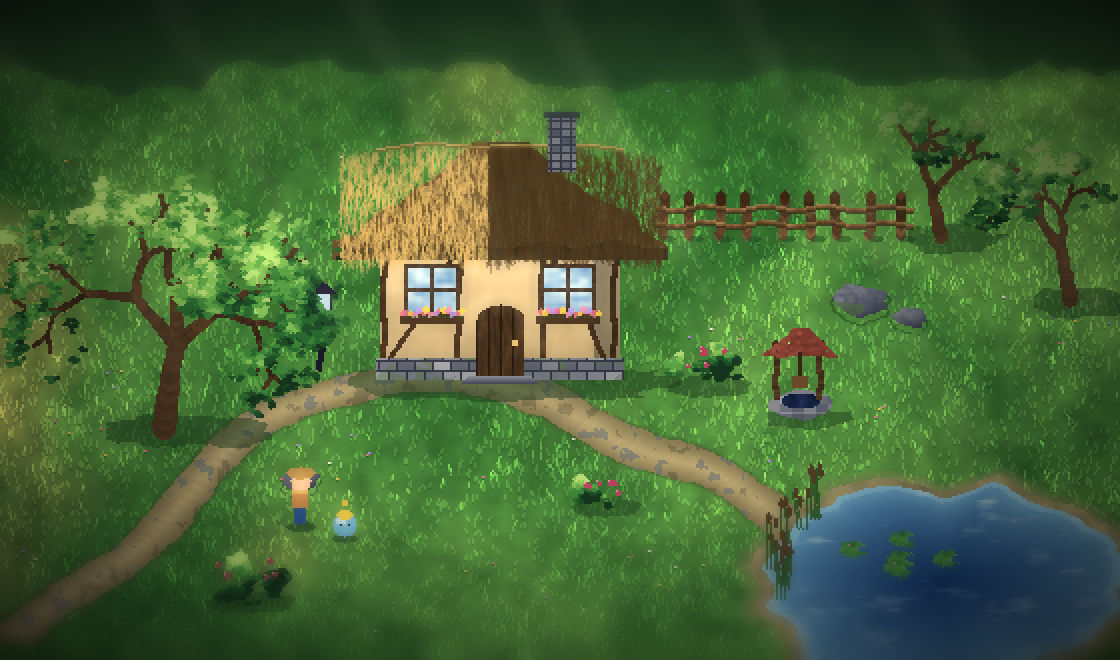
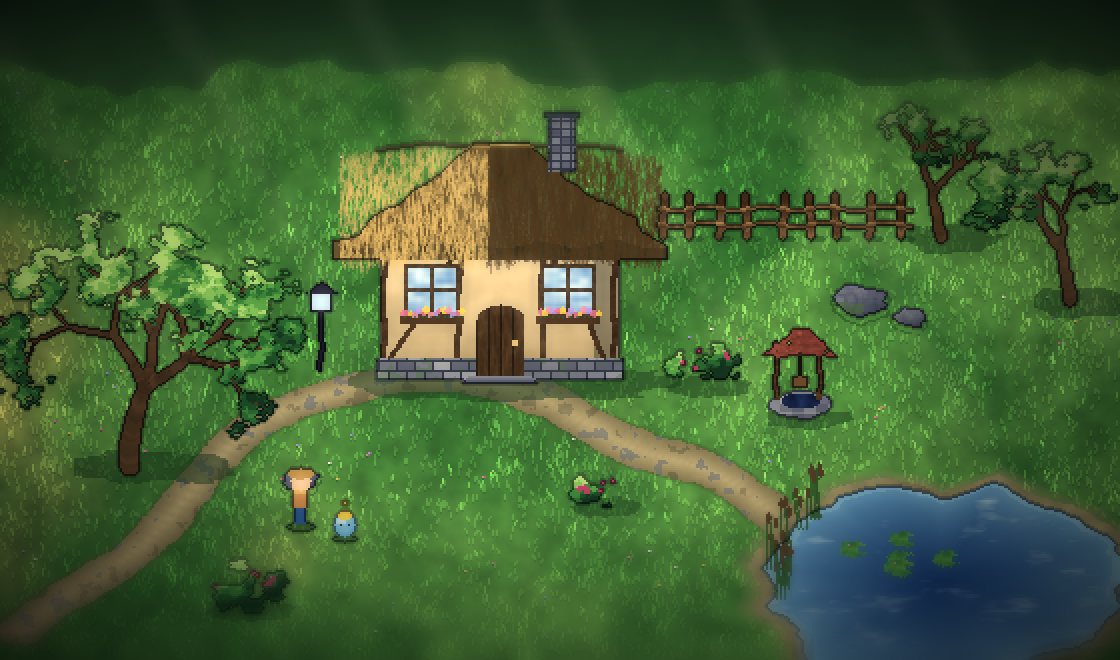
Organic samples: object boundary rims, tree drawn clear of the roof
The raster tracks object coverage while props are painted and rimObjects darkens
each object's edge and the background just outside it; the near tree moves off
the cottage and the scene draws back to front, which removes the leaf dabs that
had landed on the thatch.

diff --git a/tests/tools/env-fractal.test.ts b/tests/tools/env-fractal.test.ts
@@ -14,7 +14,19 @@ import { expect, it } from 'vitest';
 import { Rng } from '../../src/sim/rng';
 import { fbm, ridged, vnoise, warped } from './noise';
 import { encodePng } from './png';
-import { bloom, boxBlur, grade, hash, hex, mix, Raster, shade, vignette, type RGB } from './raster';
+import {
+  bloom,
+  boxBlur,
+  grade,
+  hash,
+  hex,
+  mix,
+  Raster,
+  rimObjects,
+  shade,
+  vignette,
+  type RGB,
+} from './raster';
 
 const W = 560;
 const H = 330;
@@ -139,7 +151,9 @@ function pond(r: Raster): void {
       const ripple = fbm(x / 16 + y / 60, y / 5, 3, 12);
       if (ripple > 0.66) c = mix(c, hex('#dff2ff'), (ripple - 0.66) * 2);
       if (d > edge - 5) c = mix(c, hex('#a9d9f0'), 0.4);
+      r.tracking = true;
       r.set(x, y, c);
+      r.tracking = false;
     }
   }
   // Reeds and lily pads with ragged edges.
@@ -632,6 +646,8 @@ function albedo(): Raster {
   }
   path(r);
   pond(r);
+  // Everything from here is an object: tracked for the boundary rim, drawn back to front.
+  r.tracking = true;
   rock(r, 430, 150, 14, 8, 80);
   rock(r, 455, 158, 8, 5, 81);
   rock(r, 150, 240, 9, 5, 82);
@@ -654,12 +670,14 @@ function albedo(): Raster {
   fence(r, rng, 330, 118, 9);
   cottage(r, rng);
   well(r, 400, 206);
-  tree(r, rng, 82, 214, 1.1);
+  tree(r, rng, 64, 232, 1.05);
   bush(r, rng, 352, 192, 0.9);
-  bush(r, rng, 122, 300, 1);
+  bush(r, rng, 122, 304, 1);
   bush(r, rng, 300, 252, 0.7);
   keeper(r, 150, 262);
   nubbin(r, 172, 268);
+  r.tracking = false;
+  rimObjects(r);
   return r;
 }
 
@@ -687,7 +705,7 @@ function lightPass(a: Raster): Raster {
   for (let yy = -14; yy <= 14; yy++) {
     for (let xx = 0; xx <= 150; xx++) {
       const rr = Math.hypot((xx - 75) / 75, yy / 14) + (fbm(xx / 12, yy / 5, 2, 90) - 0.5) * 0.6;
-      if (rr < 1) light.set(82 + 40 + xx, 214 + 4 + yy, shadow, 0.8);
+      if (rr < 1) light.set(64 + 40 + xx, 232 + 4 + yy, shadow, 0.8);
     }
   }
   light.ellipse(400 + 30, 208, 30, 7, shadow, 0.7);
@@ -698,7 +716,7 @@ function lightPass(a: Raster): Raster {
     }
   }
   light.ellipse(352 + 28, 193, 26, 6, shadow, 0.7);
-  light.ellipse(122 + 30, 301, 30, 7, shadow, 0.7);
+  light.ellipse(122 + 30, 305, 30, 7, shadow, 0.7);
   light.ellipse(300 + 20, 253, 20, 5, shadow, 0.7);
   light.ellipse(470 + 50, 120, 46, 8, shadow, 0.6);
   light.ellipse(535 + 50, 152, 50, 9, shadow, 0.6);

diff --git a/tests/tools/raster.ts b/tests/tools/raster.ts
@@ -20,12 +20,16 @@ export function hash(x: number, y: number, salt = 0): number {
 /** A small full-colour raster with the few primitives the samples need. */
 export class Raster {
   readonly data: Float32Array;
+  /** Object coverage, filled while `tracking` is on, for the boundary rim. */
+  readonly mask: Uint8Array;
+  tracking = false;
   constructor(
     readonly w: number,
     readonly h: number,
     bg: RGB,
   ) {
     this.data = new Float32Array(w * h * 3);
+    this.mask = new Uint8Array(w * h);
     for (let i = 0; i < w * h; i++) this.data.set(bg, i * 3);
   }
   get(x: number, y: number): RGB {
@@ -36,6 +40,7 @@ export class Raster {
     x = Math.round(x);
     y = Math.round(y);
     if (x < 0 || y < 0 || x >= this.w || y >= this.h) return;
+    if (this.tracking && a >= 0.5) this.mask[y * this.w + x] = 1;
     const i = (y * this.w + x) * 3;
     if (a >= 1) this.data.set(c, i);
     else {
@@ -189,4 +194,36 @@ export function grade(r: Raster, shadows: RGB, highlights: RGB): void {
       r.set(x, y, [c[0] * tint[0], c[1] * tint[1], c[2] * tint[2]]);
     }
   }
+}
+
+/**
+ * Contrast at every object boundary: the object's edge pixels darken, the background
+ * pixels just outside darken a little, so each thing reads as a separate thing.
+ */
+export function rimObjects(r: Raster, inner = 0.45, outer = 0.78): void {
+  const m = r.mask;
+  const edgeIn: number[] = [];
+  const edgeOut: number[] = [];
+  for (let y = 0; y < r.h; y++) {
+    for (let x = 0; x < r.w; x++) {
+      const i = y * r.w + x;
+      const on = m[i] === 1;
+      let boundary = false;
+      for (const [dx, dy] of [
+        [1, 0],
+        [-1, 0],
+        [0, 1],
+        [0, -1],
+      ] as const) {
+        const xx = x + dx;
+        const yy = y + dy;
+        if (xx < 0 || yy < 0 || xx >= r.w || yy >= r.h) continue;
+        if ((m[yy * r.w + xx] === 1) !== on) boundary = true;
+      }
+      if (!boundary) continue;
+      (on ? edgeIn : edgeOut).push(i);
+    }
+  }
+  for (const i of edgeIn) r.multiply(i % r.w, Math.floor(i / r.w), [inner, inner, inner * 1.05]);
+  for (const i of edgeOut) r.multiply(i % r.w, Math.floor(i / r.w), [outer, outer, outer]);
 }

diff --git a/PROGRESS.md b/PROGRESS.md
@@ -34,6 +34,13 @@ recommendation to the list of improvements."
   individual stones, a thatch with a sagging ridge and ragged eaves built from 2,600
   strokes, wavy old glass, a chimney of stacked stones, a crooked lantern post, a
   sagging fence. The far treeline is a fractal silhouette.
+- Boundaries: every object (rocks, trees, bushes, fence, cottage, well, Keeper,
+  Nubbin, the water) is tracked into a coverage mask while it is painted, and
+  `rimObjects` in `tests/tools/raster.ts` darkens each object's edge pixels and, more
+  softly, the background just outside, so each thing reads as a separate thing (Maor,
+  after the first render: "add contrast to the borders of each object"). The green that
+  showed through the roof in that first render was the near tree's canopy drawn over
+  the cottage; objects are now drawn back to front and the tree sits clear of the roof.
 - Shadows in the dusk pass are noise-eaten shapes too. Same light pass and HD-2D
   frame as the combined sample. Shared noise code: `tests/tools/noise.ts` (value noise,
   fbm, domain warping, ridged).
